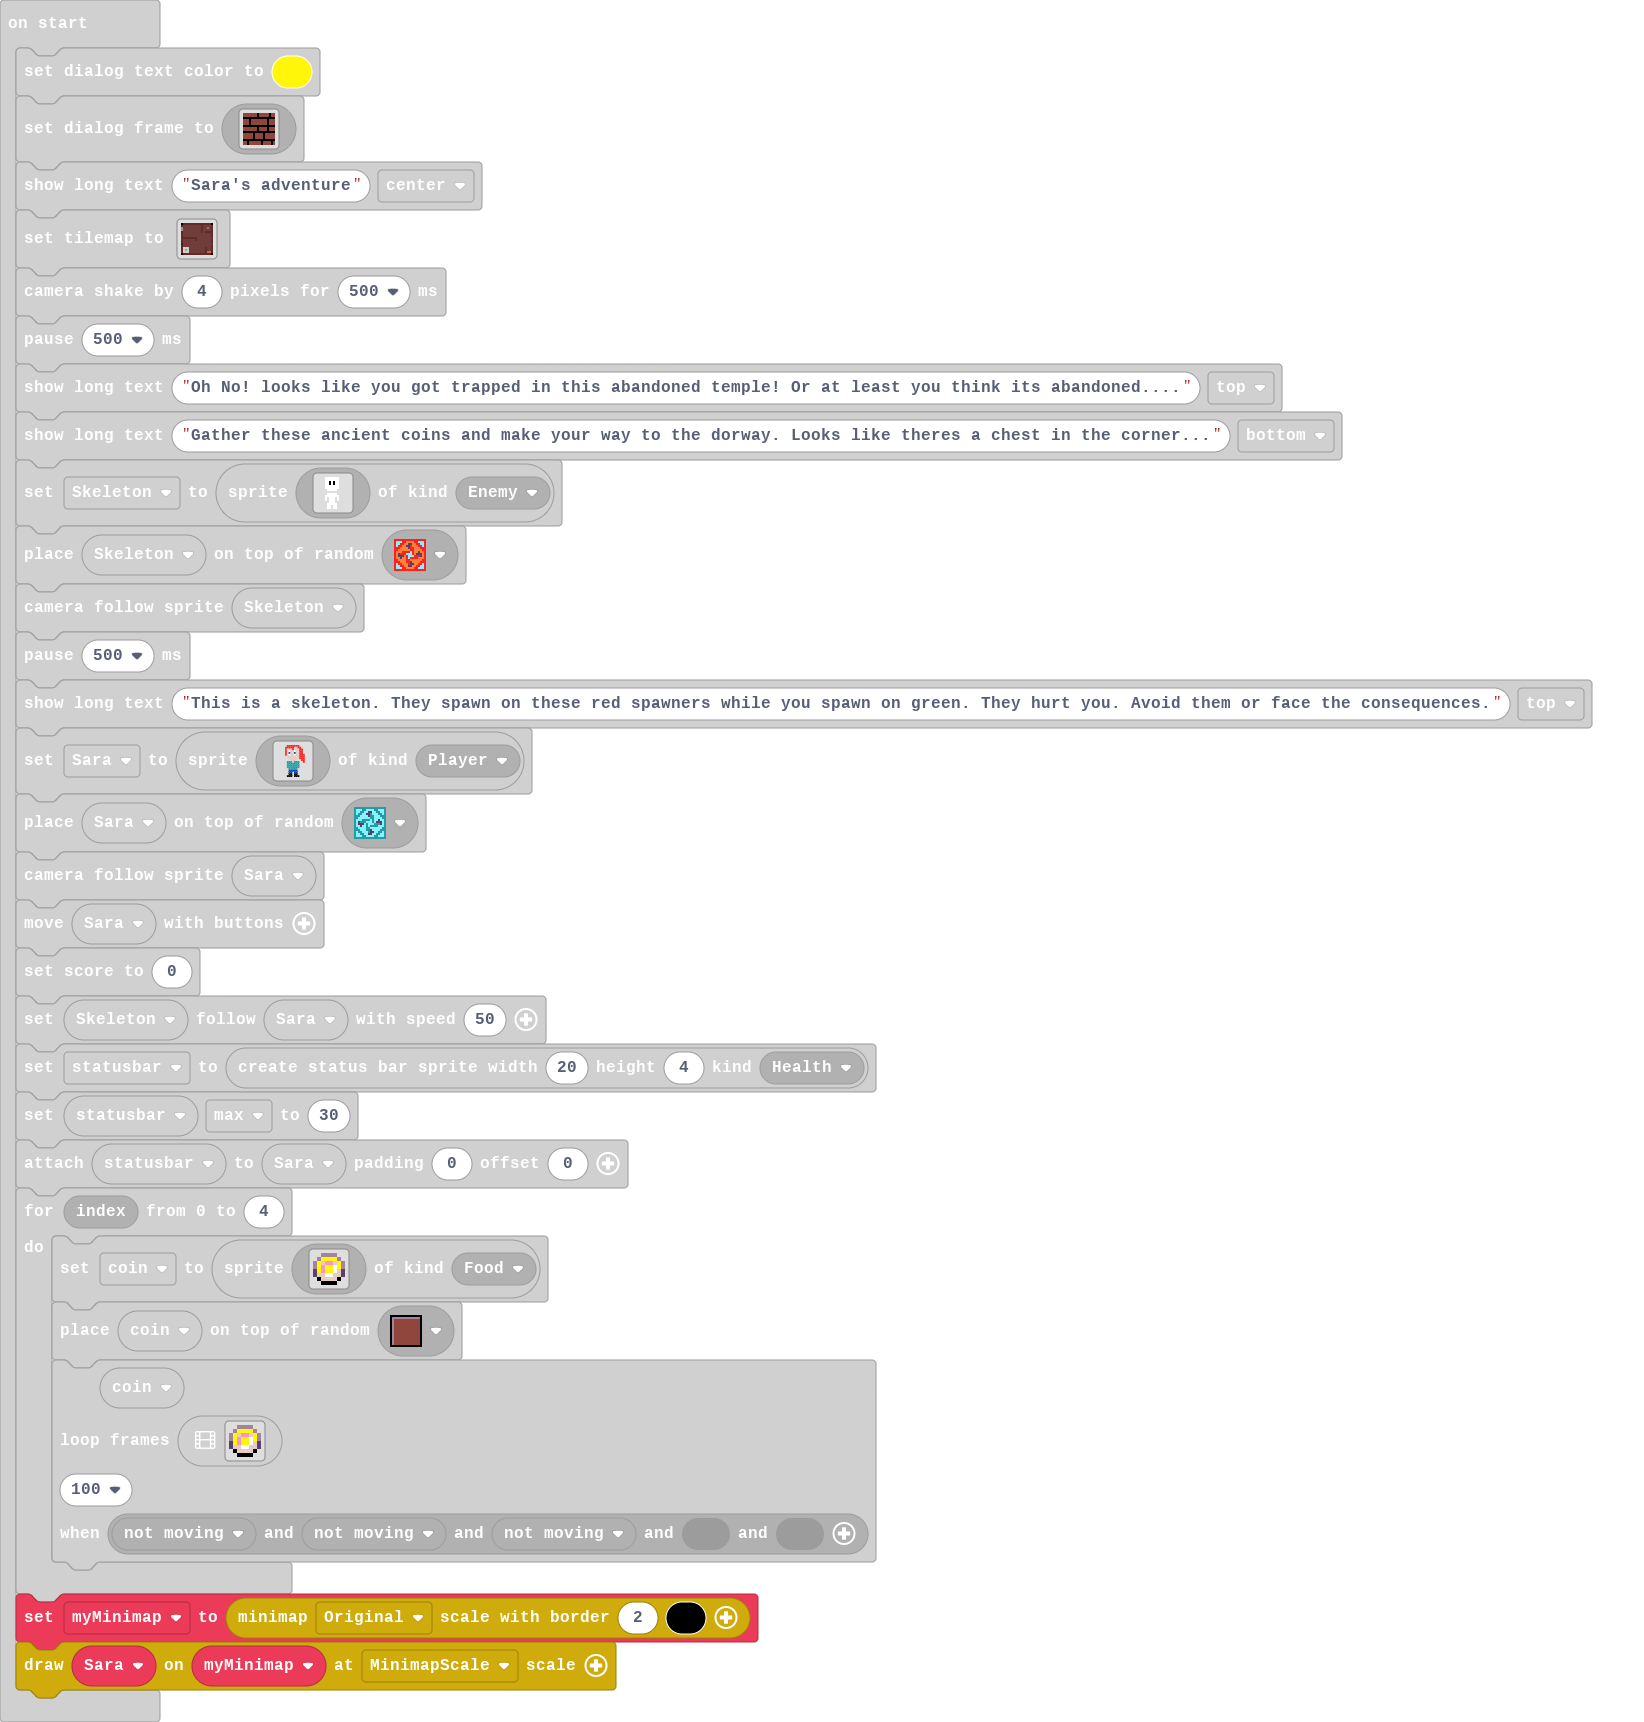
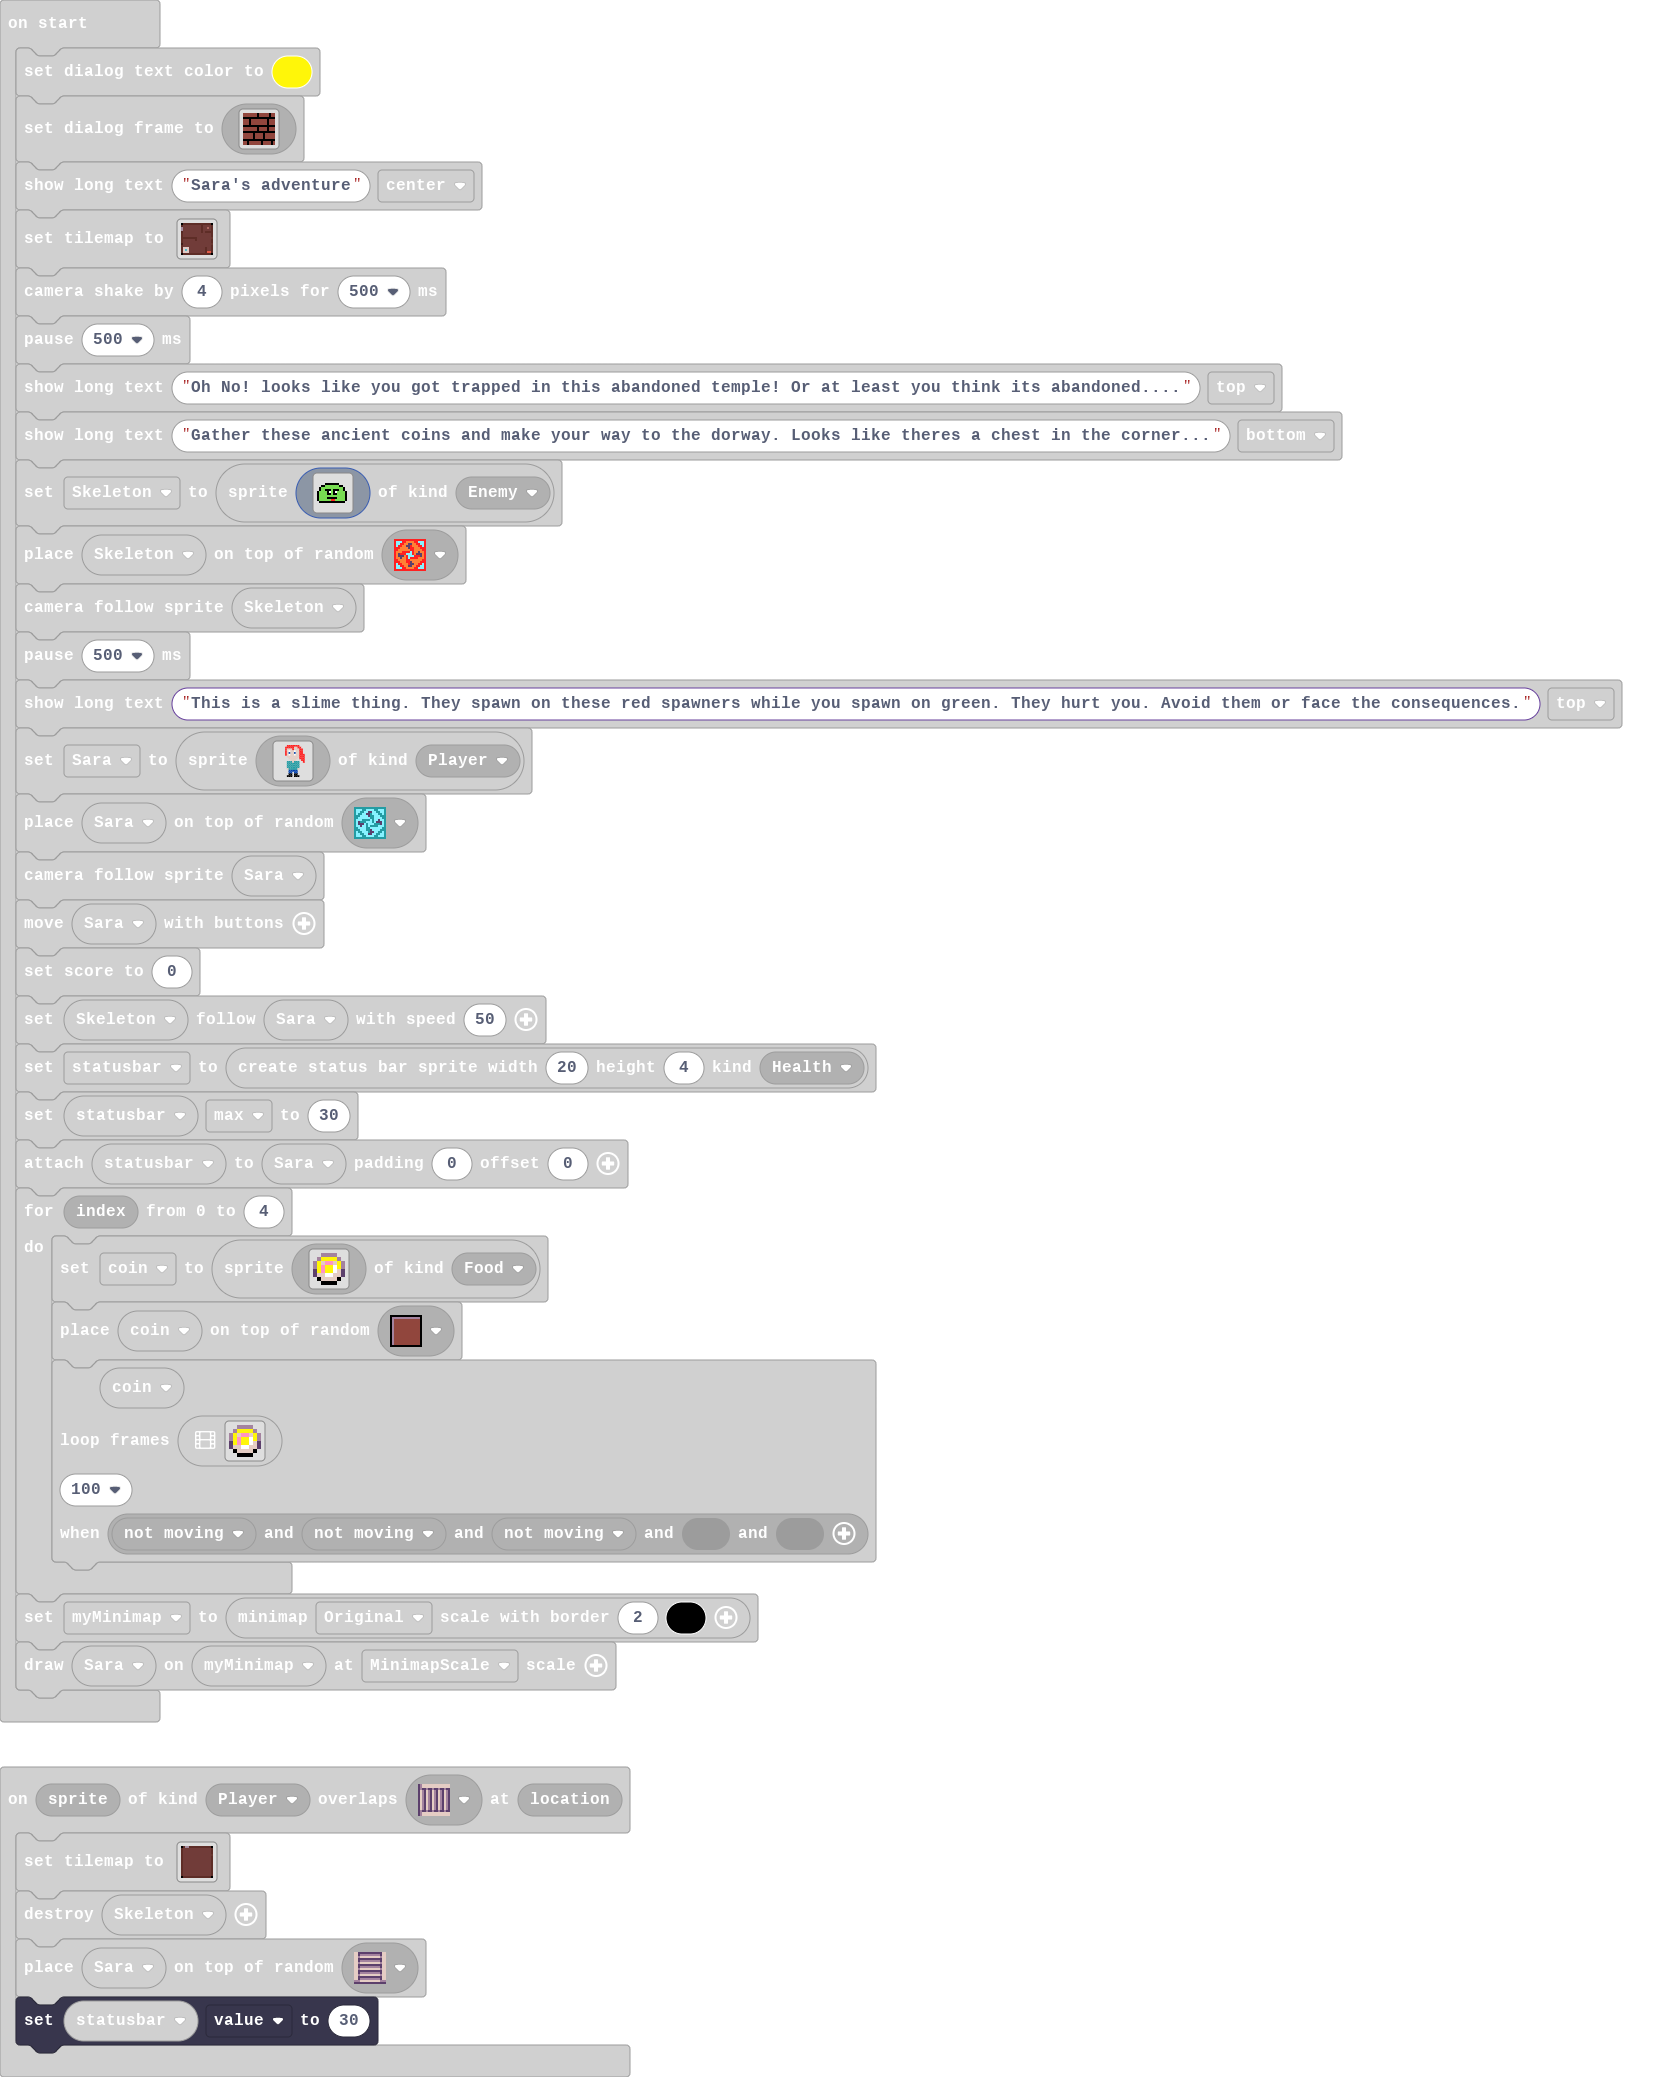
Update main.blocks, main.ts

Changed region(s): [[0.0, 0.0, 0.9927, 1.0]]

diff --git a/main.ts b/main.ts
@@ -10,7 +10,7 @@ scene.onOverlapTile(SpriteKind.Player, sprites.dungeon.stairEast, function (spri
     tiles.setTilemap(tilemap`level3`)
     Skeleton.destroy()
     tiles.placeOnRandomTile(Sara, assets.tile`myTile8`)
-    statusbar.max = 30
+    statusbar.value = 30
 })
 sprites.onOverlap(SpriteKind.Player, SpriteKind.Food, function (sprite, otherSprite) {
     info.changeScoreBy(1)
@@ -33,27 +33,27 @@ pause(500)
 game.showLongText("Oh No! looks like you got trapped in this abandoned temple! Or at least you think its abandoned....", DialogLayout.Top)
 game.showLongText("Gather these ancient coins and make your way to the dorway. Looks like theres a chest in the corner...", DialogLayout.Bottom)
 Skeleton = sprites.create(img`
-    . . . . 1 1 1 1 1 1 1 . . . . . 
-    . . . . 1 1 1 1 1 1 1 . . . . . 
-    . . . . 1 1 f 1 f 1 1 . . . . . 
-    . . . . 1 1 f 1 f 1 1 . . . . . 
-    . . . . 1 1 1 1 1 1 1 . . . . . 
-    . . . . 1 1 1 1 1 1 1 . . . . . 
-    . . . . . 1 1 1 1 1 . . . . . . 
     . . . . . . . . . . . . . . . . 
-    . . . . . 1 1 1 1 1 . . . . . . 
-    . . . . 1 1 1 1 1 1 1 . . . . . 
-    . . . . 1 . 1 1 1 . 1 . . . . . 
-    . . . . 1 . 1 1 1 . 1 . . . . . 
-    . . . . . . 1 1 1 . . . . . . . 
-    . . . . . 1 1 1 1 1 . . . . . . 
-    . . . . . 1 1 . 1 1 . . . . . . 
-    . . . . . 1 1 . 1 1 . . . . . . 
+    . . . . . . . . . . . . . . . . 
+    . . . . . . . . . . . . . . . . 
+    . . . . f f f f f f f . . . . . 
+    . . f f 7 7 7 7 7 7 7 f f . . . 
+    . f 7 7 7 7 7 7 7 7 7 7 7 f . . 
+    . f 7 7 f f f 7 f f f 7 7 f . . 
+    f 7 7 7 7 f 1 7 f 1 7 7 7 7 f . 
+    f 7 7 7 7 f f 7 f f 7 7 7 7 f . 
+    f 7 7 7 7 7 7 7 7 7 7 7 7 7 f . 
+    f 7 7 7 7 f f f f f 7 7 7 7 f . 
+    f 7 7 7 7 7 7 2 2 7 7 7 7 7 f . 
+    . f f f f f f f f f f f f f . . 
+    . . . . . . . . . . . . . . . . 
+    . . . . . . . . . . . . . . . . 
+    . . . . . . . . . . . . . . . . 
     `, SpriteKind.Enemy)
 tiles.placeOnRandomTile(Skeleton, assets.tile`myTile4`)
 scene.cameraFollowSprite(Skeleton)
 pause(500)
-game.showLongText("This is a skeleton. They spawn on these red spawners while you spawn on green. They hurt you. Avoid them or face the consequences.", DialogLayout.Top)
+game.showLongText("This is a slime thing. They spawn on these red spawners while you spawn on green. They hurt you. Avoid them or face the consequences.", DialogLayout.Top)
 Sara = sprites.create(img`
     . . . . . 2 2 2 2 2 2 2 . . . . 
     . . . . 2 2 2 2 2 d d 2 2 . . . 
